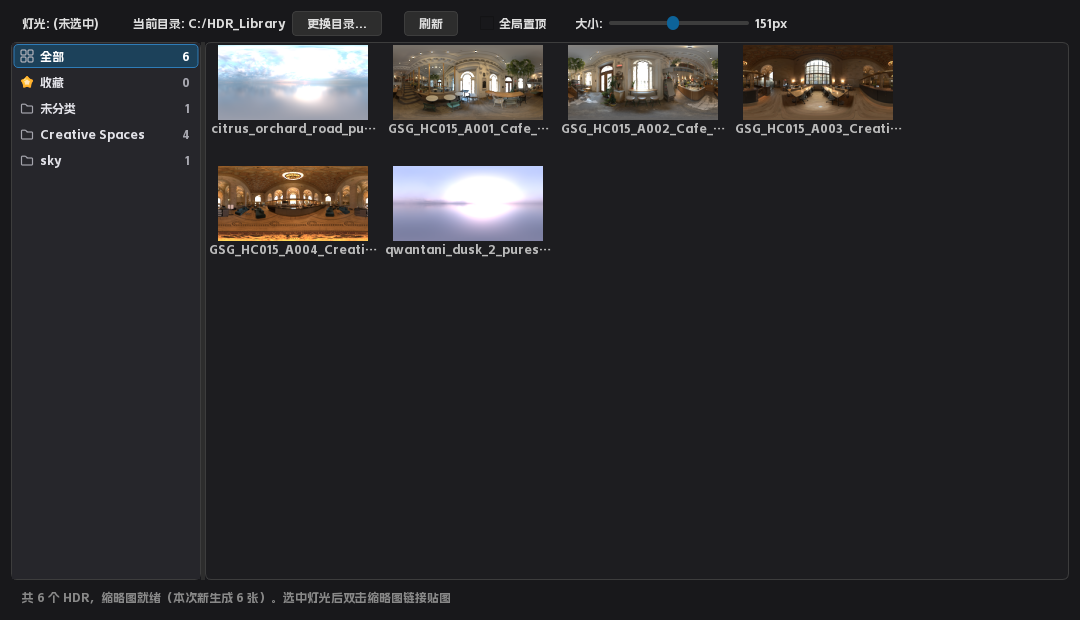
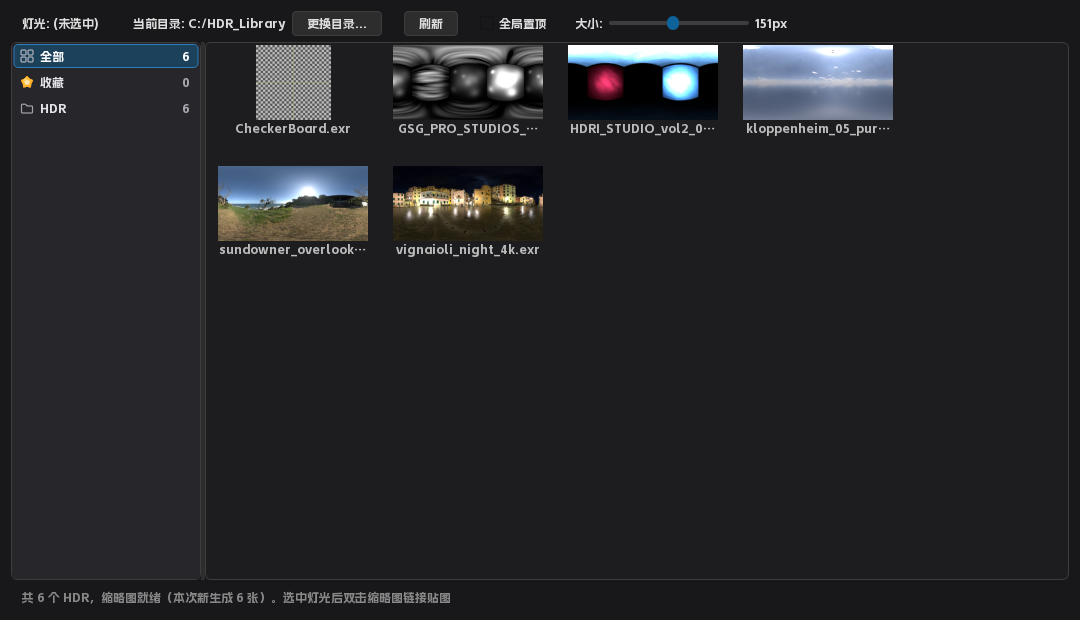
docs: README 与 About 手册补充视窗截图嵌入与相机分辨率说明，重生成工具截图

diff --git a/docs/index.html b/docs/index.html
@@ -446,7 +446,7 @@
   <div class="hero-shade" aria-hidden="true"></div>
   <div class="hero-inner">
     <div class="hero-kicker">HOUDINI 22 · PLUGIN SUITE</div>
-    <h1>HouTools<span class="v">v1.3.5</span></h1>
+    <h1>HouTools<span class="v">v1.4.0</span></h1>
     <p class="sub">Houdini 22 插件工具集 — 使用手册</p>
     <div class="badges">
       <span class="badge">Houdini 22.0</span>
@@ -564,6 +564,48 @@
       <div class="slide-cap"><strong>Drag &amp; Drop Import</strong><span>拖 .abc / .fbx 即落点创建导入节点</span></div>
     </a>
 
+    <a class="slide" href="#capture-viewport">
+      <svg viewBox="0 0 880 320" role="img" aria-label="视窗截图嵌入节点界面示意">
+        <defs>
+          <linearGradient id="c4-sky" x1="0" y1="0" x2="0" y2="1">
+            <stop offset="0" stop-color="#3c2f4a"/><stop offset="1" stop-color="#b0563a"/>
+          </linearGradient>
+        </defs>
+        <rect width="880" height="320" fill="#241d1c"/>
+        <rect width="880" height="40" fill="#201a19"/>
+        <circle cx="22" cy="20" r="6" fill="#d1283e" opacity=".8"/><circle cx="42" cy="20" r="6" fill="#c9a53e" opacity=".8"/><circle cx="62" cy="20" r="6" fill="#3f9d58" opacity=".8"/>
+        <text x="88" y="26" font-family="Segoe UI, sans-serif" font-size="14" fill="#c9c9d0">Network Editor — Capture Viewport to Node</text>
+        <g stroke="#2d2d2d" stroke-width="1">
+          <path d="M0 80 H880 M0 140 H880 M0 200 H880 M0 260 H880"/>
+          <path d="M110 40 V320 M260 40 V320 M410 40 V320 M560 40 V320 M710 40 V320"/>
+        </g>
+        <g font-family="Segoe UI, sans-serif">
+          <rect x="500" y="72" width="272" height="158" rx="6" fill="#1a1514" stroke="#e2571b" stroke-width="2"/>
+          <rect x="508" y="80" width="256" height="118" fill="url(#c4-sky)"/>
+          <circle cx="716" cy="104" r="14" fill="#f5c86a"/>
+          <polygon points="508,198 586,120 648,198" fill="#241d1c" opacity=".85"/>
+          <polygon points="600,198 668,132 764,198" fill="#161211"/>
+          <rect x="508" y="198" width="256" height="24" fill="#2a2220"/>
+          <text x="636" y="214" text-anchor="middle" font-size="10" fill="#a89e96">$HIP/HouTools_cfg/captures/rop_cache1.jpg</text>
+          <rect x="240" y="212" width="180" height="72" rx="6" fill="#2a2a2f" stroke="#c8102e" stroke-width="2"/>
+          <rect x="240" y="212" width="180" height="22" rx="6" fill="#c8102e" opacity=".3"/>
+          <text x="252" y="228" font-size="13" fill="#e4e4e7">rop_cache1</text>
+          <circle cx="246" cy="252" r="4" fill="#6a6a72"/><circle cx="246" cy="268" r="4" fill="#6a6a72"/>
+          <path d="M500 222 C 460 232, 446 236, 420 240" stroke="#f2a33c" stroke-width="2" stroke-dasharray="6 5" fill="none"/>
+          <circle cx="500" cy="222" r="4" fill="#f2a33c"/>
+          <g transform="translate(96,84)">
+            <rect x="0" y="8" width="44" height="32" rx="6" fill="#2f2a28" stroke="#8a5cf5" stroke-width="2"/>
+            <polygon points="44,16 60,8 60,40 44,32" fill="#2f2a28" stroke="#8a5cf5" stroke-width="2"/>
+            <circle cx="22" cy="24" r="8" fill="none" stroke="#8a5cf5" stroke-width="2"/>
+          </g>
+          <text x="96" y="150" font-size="12" fill="#8a8a92">3D Viewport</text>
+          <text x="70" y="300" font-size="12" fill="#8a8a92">右键节点 → Capture Viewport to Node</text>
+          <text x="810" y="300" text-anchor="end" font-size="12" fill="#8a8a92">图随节点 · 改名跟随 · 不进 hip</text>
+        </g>
+      </svg>
+      <div class="slide-cap"><strong>Capture Viewport to Node</strong><span>视窗截图钉在节点旁,随节点移动/改名跟随</span></div>
+    </a>
+
     <a class="slide" href="#video-to-sequence">
       <img src="about_shots/videoseq.png" alt="视频转序列图界面截图:参数与输出设置">
       <div class="slide-cap"><strong>Video to Sequence</strong><span>ffmpeg 提取视频为帧序列,可直连相机背景</span></div>
@@ -590,6 +632,7 @@
   <a href="#automation">Automation</a>
   <a href="#paste-as-object-merge">粘贴为 Object Merge</a>
   <a href="#dragdrop-import">拖放导入 .abc/.fbx</a>
+  <a href="#capture-viewport">视窗截图嵌入</a>
   <a href="#video-to-sequence">视频转序列图</a>
   <a href="#hdr-library">Hdr Library</a>
   <a href="#recipe-library">Recipe Library</a>
@@ -668,6 +711,22 @@
   </ul>
 </section>
 
+<!-- ============ 视窗截图嵌入 ============ -->
+<section id="capture-viewport">
+  <h2>Capture Viewport to Node<span class="zh">视窗截图嵌入节点</span></h2>
+  <p class="entry">入口:右键任意节点 → <code>Capture Viewport to Node [HT]</code>(删除:右键 <code>Delete Viewport Capture [HT]</code>,仅带截图的节点显示)</p>
+  <p>截取当前 3D 视窗,作为网络编辑器背景图钉在节点旁——给关键节点留一张「做出来长什么样」的速览图。</p>
+  <ul>
+    <li>截图为单帧 flipbook:beauty pass(不带网格/gizmo 覆盖层)、视口原始分辨率,直出 JPG。</li>
+    <li>落盘后按质量 60 重编码 JPG(约为 flipbook 默认档 1/4 体积),放大部分显示仍清晰。</li>
+    <li>文件存 <code>$HIP/HouTools_cfg/captures/</code>(文件名即节点路径);<strong>背景图只存路径引用、不进 hip</strong>——工程挪动、换机打开仍有效,hip 不膨胀。</li>
+    <li>图片锚定节点,节点移动图跟随;节点改名后磁盘文件与背景图自动跟随重命名(改名撤销会原路改回,语义自洽)。</li>
+    <li>重截同节点自动覆盖旧图;删除节点只清背景图条目、磁盘文件保留(孤儿文件无害,文件名自说明,可手动清理)。</li>
+    <li><code>Delete Viewport Capture [HT]</code>:一次性删除背景图条目、磁盘文件与标记。</li>
+    <li>已知局限:父级网络(geo 容器等)改名不跟随,需重截或手动调整。</li>
+  </ul>
+</section>
+
 <!-- ============ 视频转序列图 ============ -->
 <section id="video-to-sequence">
   <h2>Video to Sequence<span class="zh">视频转序列图</span></h2>
@@ -677,6 +736,7 @@
     <li>支持<strong>拖放视频文件</strong>到窗口,或浏览选择、手输路径。</li>
     <li>帧级进度显示;输出质量、起始帧编号、位数、文件名前缀可调。</li>
     <li>可选自动把输出序列设置到选中相机的 Background Image。</li>
+    <li>相机分辨率显示与编辑:选中相机后显示其分辨率,宽/高两个输入框直接改写(1~5 位整数校验),「预设」下拉一键填入 1280×720~4096×2160 共 7 档,「确定」写回相机。</li>
     <li>转换前自动扫描输出目录中的同名旧序列并询问是否清除,防止新旧帧混杂。</li>
     <li>提取可随时取消(探测与转换阶段均可),取消时提示已写入帧数。</li>
   </ul>
